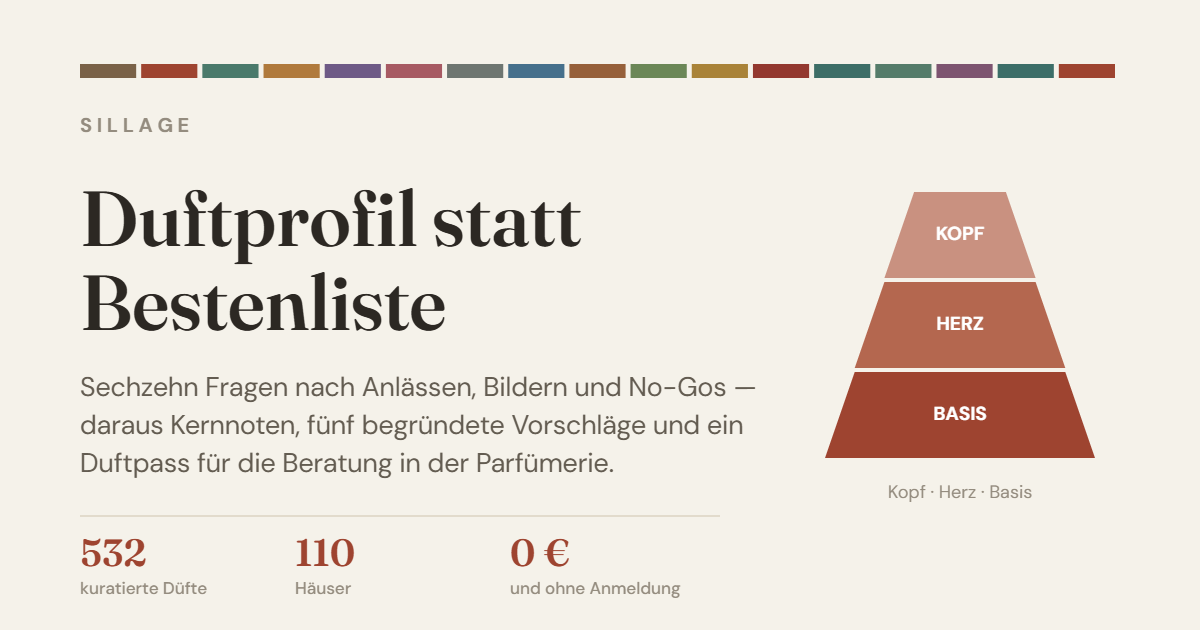
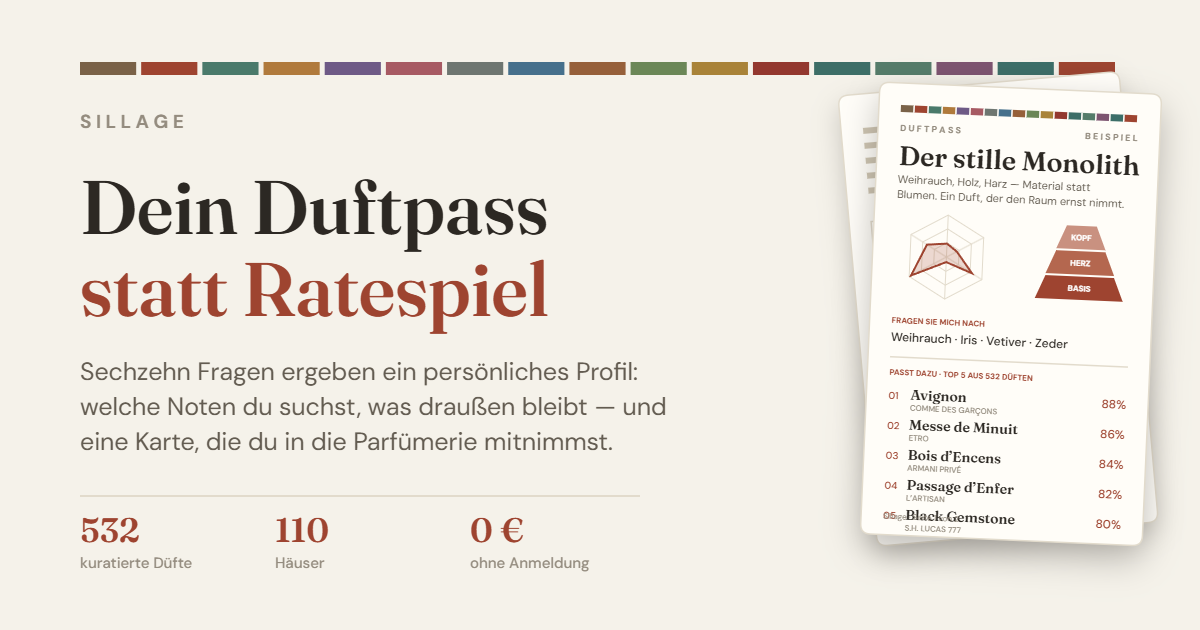
Add files via upload

diff --git a/index.html b/index.html
@@ -3,7 +3,7 @@
 <head>
 <meta charset="utf-8">
 <meta name="viewport" content="width=device-width, initial-scale=1">
-<title>Sillage — Duftprofil statt Bestenliste</title>
+<title>Sillage — Dein Duftpass statt Ratespiel</title>
 <meta name="description" content="Ein Fragebogen, der aus Anlässen, Bildern und No-Gos ein persönliches Duftprofil rechnet — mit Kernnoten, Duftpyramide und einem Duftpass zum Mitnehmen in die Parfümerie. 532 kuratierte Düfte aus 110 Häusern.">
 <meta name="author" content="Jonas Peter">
 <meta name="theme-color" content="#F5F2EA">
@@ -15,15 +15,15 @@
 <meta property="og:site_name" content="Sillage">
 <meta property="og:locale" content="de_DE">
 <meta property="og:url" content="https://jonaspeter123.github.io/perfumeguide/">
-<meta property="og:title" content="Sillage — Duftprofil statt Bestenliste">
-<meta property="og:description" content="Sechzehn Fragen, ein persönliches Duftprofil: Kernnoten nach Kopf, Herz und Basis, fünf begründete Vorschläge und ein Duftpass für die Beratung.">
+<meta property="og:title" content="Sillage — Dein Duftpass statt Ratespiel">
+<meta property="og:description" content="Sechzehn Fragen ergeben ein persönliches Profil: welche Noten du suchst, was draußen bleibt — und eine Karte, die du in die Parfümerie mitnimmst.">
 <meta property="og:image" content="https://jonaspeter123.github.io/perfumeguide/vorschau.png">
 <meta property="og:image:width" content="1200">
 <meta property="og:image:height" content="630">
-<meta property="og:image:alt" content="Sillage — Duftprofil statt Bestenliste">
+<meta property="og:image:alt" content="Ein Beispiel-Duftpass: Archetyp, Radar, Duftpyramide, Kernnoten und fünf Treffer">
 <meta name="twitter:card" content="summary_large_image">
-<meta name="twitter:title" content="Sillage — Duftprofil statt Bestenliste">
-<meta name="twitter:description" content="Sechzehn Fragen, ein persönliches Duftprofil — mit Duftpass für die Parfümerie.">
+<meta name="twitter:title" content="Sillage — Dein Duftpass statt Ratespiel">
+<meta name="twitter:description" content="Sechzehn Fragen ergeben ein persönliches Profil — mit einer Karte, die du in die Parfümerie mitnimmst.">
 <meta name="twitter:image" content="https://jonaspeter123.github.io/perfumeguide/vorschau.png">
 <link rel="preconnect" href="https://fonts.googleapis.com">
 <link rel="preconnect" href="https://fonts.gstatic.com" crossorigin>
@@ -3537,6 +3537,21 @@ function zaehleHoch(){
     requestAnimationFrame(tick);
   });
 }
+
+/* Wird ein Profil-Link in die Adresszeile einer bereits geoeffneten Seite
+   eingefuegt, laedt der Browser nicht neu - er springt nur zum Anker.
+   Ohne diesen Zuhoerer passiert dann gar nichts und die Seite wirkt kaputt.
+   Gleiches gilt fuer den Zurueck-Knopf des Browsers. */
+window.addEventListener('hashchange', function(){
+  const g = geteiltesProfil();
+  if(g){
+    state.a = g; state.fb = {}; state.geteilt = true;
+    renderResult(); window.scrollTo(0,0);
+  } else if(state.geteilt){
+    state.geteilt = false; state.step = -1; state.a = {}; state.fb = {};
+    renderIntro(); window.scrollTo(0,0);
+  }
+});
 
 /* Kommt ein geteiltes Profil in der Adresse an, wird es direkt
    ausgewertet - ohne Fragebogen und ohne Zeremonie. */
